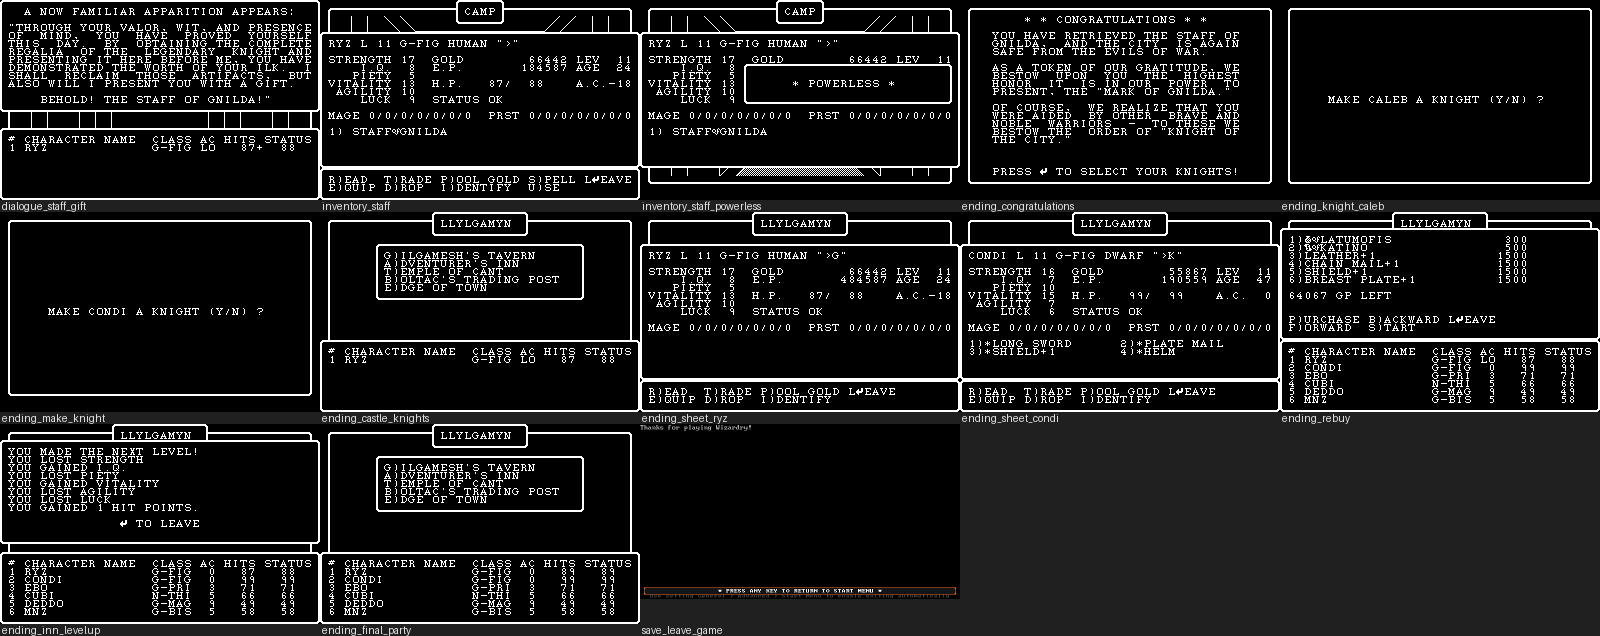
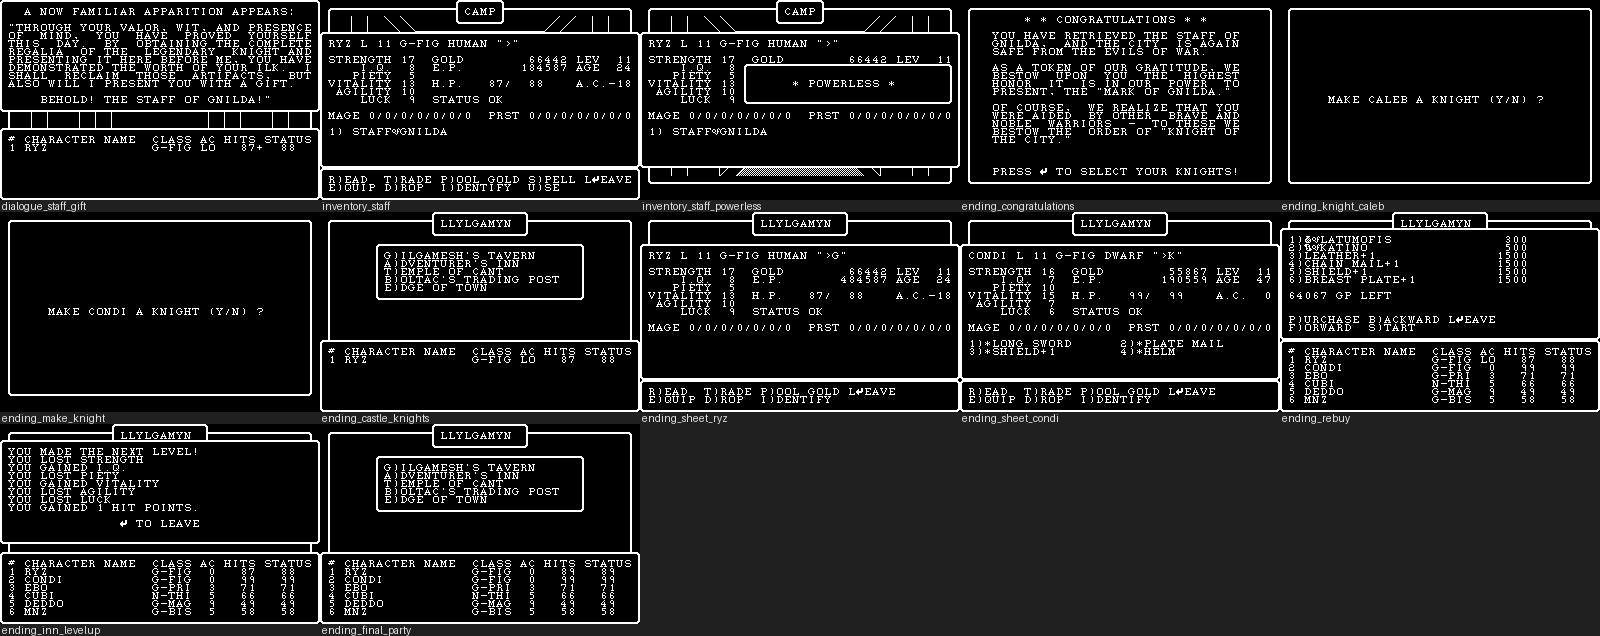
Wizardry II (DOS) done: 213/213 verified, save_leave_game dropped (emulator overlay), 212 shots
Claude-Session: https://claude.ai/code/session_011YfKegpS5y4sVPPForxFoG

Changed region(s): [[0.375, 0.6572, 0.625, 0.956], [0.4062, 0.9858, 0.4688, 1.0]]

diff --git a/AGENTS.md b/AGENTS.md
@@ -30,7 +30,8 @@ one, a fan translation with its patch tools and reverse-engineering notes. Overv
 | `games/dos/might-and-magic/` | DOS (GOG release) | screenshot set (249, to the ending text: every command, 45 monster groups, all looks), three lens documents (systems, interface, content), area warp and survey of all 55 areas, saves |
 | `games/dos/might-and-magic-2/` | DOS (GOG release, boots via `loadfix -4`) | screenshot set (228, to the Congratulations ending: Kalohn, Sheltem, override code, cryptogram), three lens documents, warp to all 60 areas and centuries, event lister, saves |
 | `games/dos/wizardry/` | DOS (1984 booter via the 1998 loader, disk images) | screenshot set (208, to the ending: Werdna beaten on screen), three lens documents, ten floor maps from the disk, items with prices, floor warp, saves incl. the Wizardry II transfer source |
-| `games/dos/wizardry-2/` | DOS (same loader) | registered 2026-11-19; scout in progress (party imported from Wizardry I) |
+| `games/dos/wizardry-2/` | DOS (same loader) | screenshot set (212, to the ending: Wizardry I party imported in the game, five guardians, Staff of Gnilda, knights), three lens documents, six floor maps, items, floor warp, saves incl. the Wizardry III transfer source |
+| `games/dos/wizardry-3/` | DOS (same loader) | registered 2026-11-19; scout in progress (party from Wizardry II via Legate) |
 | `games/apple2/might-and-magic/` | Apple II (four disk sides, cracked side 1) | registered 2026-11-18; plays from power-on through disk changes into Sorpigal and the wilderness, inn save; screenshot set (308, to the ending: the DOS set's routes replayed plus every area once and the disk prompts), three lens documents over the DOS detail documents, area warp, macros, checkpoints |
 | `games/nes/deep-dungeon-3/` | Famicom (Japanese) | screenshot set (74, to the ending), 16 floor maps + towns, design reference, saves |
 

diff --git a/games/dos/wizardry-2/design/systems.md b/games/dos/wizardry-2/design/systems.md
@@ -67,7 +67,7 @@ Rules shared with Wizardry I are listed once with a link; the Wizardry I referen
 | Chance | Encounters and rolls | random groups, hits, sleep and surprise follow the frame timing (verified: wait variants give other groups) | - | - | playbook | `battle_f1_dogs`, `battle_f1_large_animals` | shown |
 | Failure and recovery | Death, burial, cemetery | a killed member shows DEAD and moves back; the Temple raises for gold; a party all dead ends in the cemetery (verified; the party wipe set by poke) | Temple, Enter | - | Wizardry I | `gameplay_member_dead`, `gameover_slaughtered`, `gameover_cemetery`, `temple_healed` | shown |
 | Failure and recovery | Restart an "out" party | Utilities R)estart finds characters left in the maze ("No characters are in the maze" here) (verified) | R | - | - | `util_restart_none` | shown |
-| Saving and sessions | The scenario disk | the roster on the disk is the save, written as the game goes; L)eave game ends the program ("Thanks for playing Wizardry!") (verified) | Edge of Town L | 20 slots | playbook, Saves | `menu_edge`, `save_leave_game` | shown |
+| Saving and sessions | The scenario disk | the roster on the disk is the save, written as the game goes; L)eave game ends the program ("Thanks for playing Wizardry!") (verified) | Edge of Town L | 20 slots | playbook, Saves | `menu_edge` | shown |
 | Saving and sessions | Making a scenario disk | the title's M)ake scenario disk warns that the disk's data will be erased (verified; Y not pressed) | M, Y/N | - | - | `menu_make_scenario` | shown |
 | Pacing and difficulty | Veterans only | the game assumes a high-level party: on floor 1 Kobold kings, Men in armor; guardians that kill members (EBO and CONDI died on floors 2 and 3) (verified) | - | - | - | `battle_f1_men_in_armor`, `boss_shield_ebo_killed`, `boss_sword_decapitated` | shown |
 

diff --git a/games/dos/wizardry-2/shots/main/index.md b/games/dos/wizardry-2/shots/main/index.md
@@ -1,6 +1,6 @@
 # Wizardry II: The Knight of Diamonds (DOS) - shots: main
 
-Platform dos, region na, model ega-315, ROM SHA-1 `42934ace1ad2b1570c1f662f44f26cad1e76f130`. 213 shots. Contact sheet: [wizardry-2_dos_na_set_sheet.png](wizardry-2_dos_na_set_sheet.png). Originals here, 3x nearest-neighbour copies with the same names in `3x/`. File names: `<game>_<platform>_<region>_<category>_<id>.png`.
+Platform dos, region na, model ega-315, ROM SHA-1 `42934ace1ad2b1570c1f662f44f26cad1e76f130`. 212 shots. Contact sheet: [wizardry-2_dos_na_set_sheet.png](wizardry-2_dos_na_set_sheet.png). Originals here, 3x nearest-neighbour copies with the same names in `3x/`. File names: `<game>_<platform>_<region>_<category>_<id>.png`.
 
 | id | category | caption | settled | image |
 |---|---|---|---|---|
@@ -216,6 +216,5 @@ Platform dos, region na, model ega-315, ROM SHA-1 `42934ace1ad2b1570c1f662f44f26
 | ending_rebuy | shop | RYZ buys new gear at Boltac's: 64067 gold left | yes | [png](wizardry-2_dos_na_shop_ending_rebuy.png) [3x](3x/wizardry-2_dos_na_shop_ending_rebuy.png) |
 | ending_inn_levelup | system | A night at the inn: 'You made the next level!' - RYZ level 12 | yes | [png](wizardry-2_dos_na_system_ending_inn_levelup.png) [3x](3x/wizardry-2_dos_na_system_ending_inn_levelup.png) |
 | ending_final_party | ending | The final party in the Castle: RYZ >G, five knights >K, all equipped | yes | [png](wizardry-2_dos_na_ending_ending_final_party.png) [3x](3x/wizardry-2_dos_na_ending_ending_final_party.png) |
-| save_leave_game | save | L)eave game: the loader's 'Thanks for playing Wizardry!' at the DOS prompt | no | [png](wizardry-2_dos_na_save_save_leave_game.png) [3x](3x/wizardry-2_dos_na_save_save_leave_game.png) |
 
 Routes (replay with `tools/shoot.py`) are in `index.json` and `shots.txt`.

diff --git a/docs/status.md b/docs/status.md
@@ -122,7 +122,15 @@ Current snapshot; history in `progress-log.md`.
   `ega-315`. Open: Murphy's ghost and the keys (floor 1 statues never offer a search), spinner, criticals,
   stoning, body recovery. Backend gap found here (writes through a file the game keeps open missing from states)
   fixed 2026-11-19 (5310311); both DOS sets re-verified with the new core.
-- DOS queue (owner, 2026-11-19): Wizardry II (scouted 2026-11-19, capture running), Wizardry III (import characters from
+- Wizardry II (DOS), 2026-11-19: main set 212 shots from power-on to the knights (the Wizardry I party
+  imported through Move characters, five guardians with their drops, sphinx, Gnilda's test, Staff,
+  Congratulations), 213/213 verified by the coordinator from an empty cache before dropping `save_leave_game`
+  (emulator overlay), three lenses 166 / 190 / 113, saves 00-03 (03 = Wizardry III transfer source). Open: floor
+  2 (16,3) room (doors open outward only), floor 6 fixed fight, spinners, stones.
+- Tool to build (third request, MM2 / Wizardry I / Wizardry II captures): a shared shot previewer (try.py-style
+  parallel runs with shoot.py's final settle, plan-file input, `--frames` counted from a marker token, paged
+  timelines) and a duplicate check in `shoot.py --only`.
+- DOS queue (owner, 2026-11-19): Wizardry III (scout running) (import characters from
   the previous game's SAVEn.DSK), then Ultima I, II, III (GOG; cycles 500/500/300 in GOG's configs).
 - Might and Magic 1 (DOS), state after the fix-up round (2026-11-18): 249 shots, 249/249 verified in one run
   from an empty cache by the coordinator, no identical pictures, no caption over 80 characters. Round 2 before

diff --git a/games/dos/wizardry-2/design/interface.md b/games/dos/wizardry-2/design/interface.md
@@ -63,7 +63,7 @@ The interface is Wizardry I's (verified: identical layouts, fonts and keys; deta
 | Cemetery | screen | party wiped out | game over | tombstones, "Your entire party has been slaughtered. Press ↵ to leave the cemetery!" | Enter | - | `gameover_slaughtered`, `gameover_cemetery`, `gameplay_member_dead` | - |
 | Congratulations | screen | Castle with the staff, alone | the ending | the text and "Press ↵ to select your knights!" | Enter | - | `ending_congratulations` | - |
 | Make a knight | prompt | Congratulations -> each roster character -> Castle | choose companions | "Make CONDI a knight (Y/N)?" | Y, N | - | `ending_knight_caleb`, `ending_make_knight`, `ending_castle_knights`, `ending_final_party` | **Observation:** asked for every roster character, stock ones included, not only the bearer's companions |
-| Leave game | screen | Edge L -> DOS | end the session | the loader's "Thanks for playing Wizardry!" in DOS text mode | - | - | `save_leave_game` | - |
+| Leave game | screen | Edge L -> DOS | end the session | the loader's "Thanks for playing Wizardry!" in DOS text mode (no shot: the frame is the emulator's overlay) | - | - | - | - |
 
 ## 3. Screen flow
 Power-on (DOSBox Pure menu, WIZ2.COM) -> Title -> S -> (loader answers the disk prompt) -> Castle ->

diff --git a/docs/progress-log.md b/docs/progress-log.md
@@ -2,6 +2,15 @@
 
 Append-only, newest first.
 
+## 2026-11-19 - Wizardry II (DOS) captured to the ending (212 shots); Wizardry III registered
+- game-capture (af9641c): set `main` 213 shots, lenses, GEAR/EQUIP/KODGEAR, save 03_wizardry3_transfer; floor 2
+  riddle answer "shield", all five drops confirmed in RAM, monster HP at 0D3BA, Gnilda takes the whole pack.
+- Coordinator: sheets looked at, `shoot.py dos/wizardry-2 main --verify` from an empty cache 213/213, then
+  `save_leave_game` dropped (DOSBox Pure's overlay after the program quits, not the game) and republished: 212
+  shots, lenses clean (166 / 190 / 113). Rules into the emulator guide: compare wireframe floor views before
+  snapping; do not snap the front end's screens. Merged to `master`.
+- Wizardry III (DOS) registered (7f7048f); scout dispatched with the transfer from 03_wizardry3_transfer.
+
 ## 2026-11-19 - DOS backend: writes through open files reach states; Wizardry II scouted
 - Wizardry II (DOS) scout (04bd3a9, 3a1201c): the Wizardry I party imported through the game's own Move
   characters (`tools/transfer.py` puts Wizardry I's SAVE1.DSK next to the loader); quest chain to the ending
